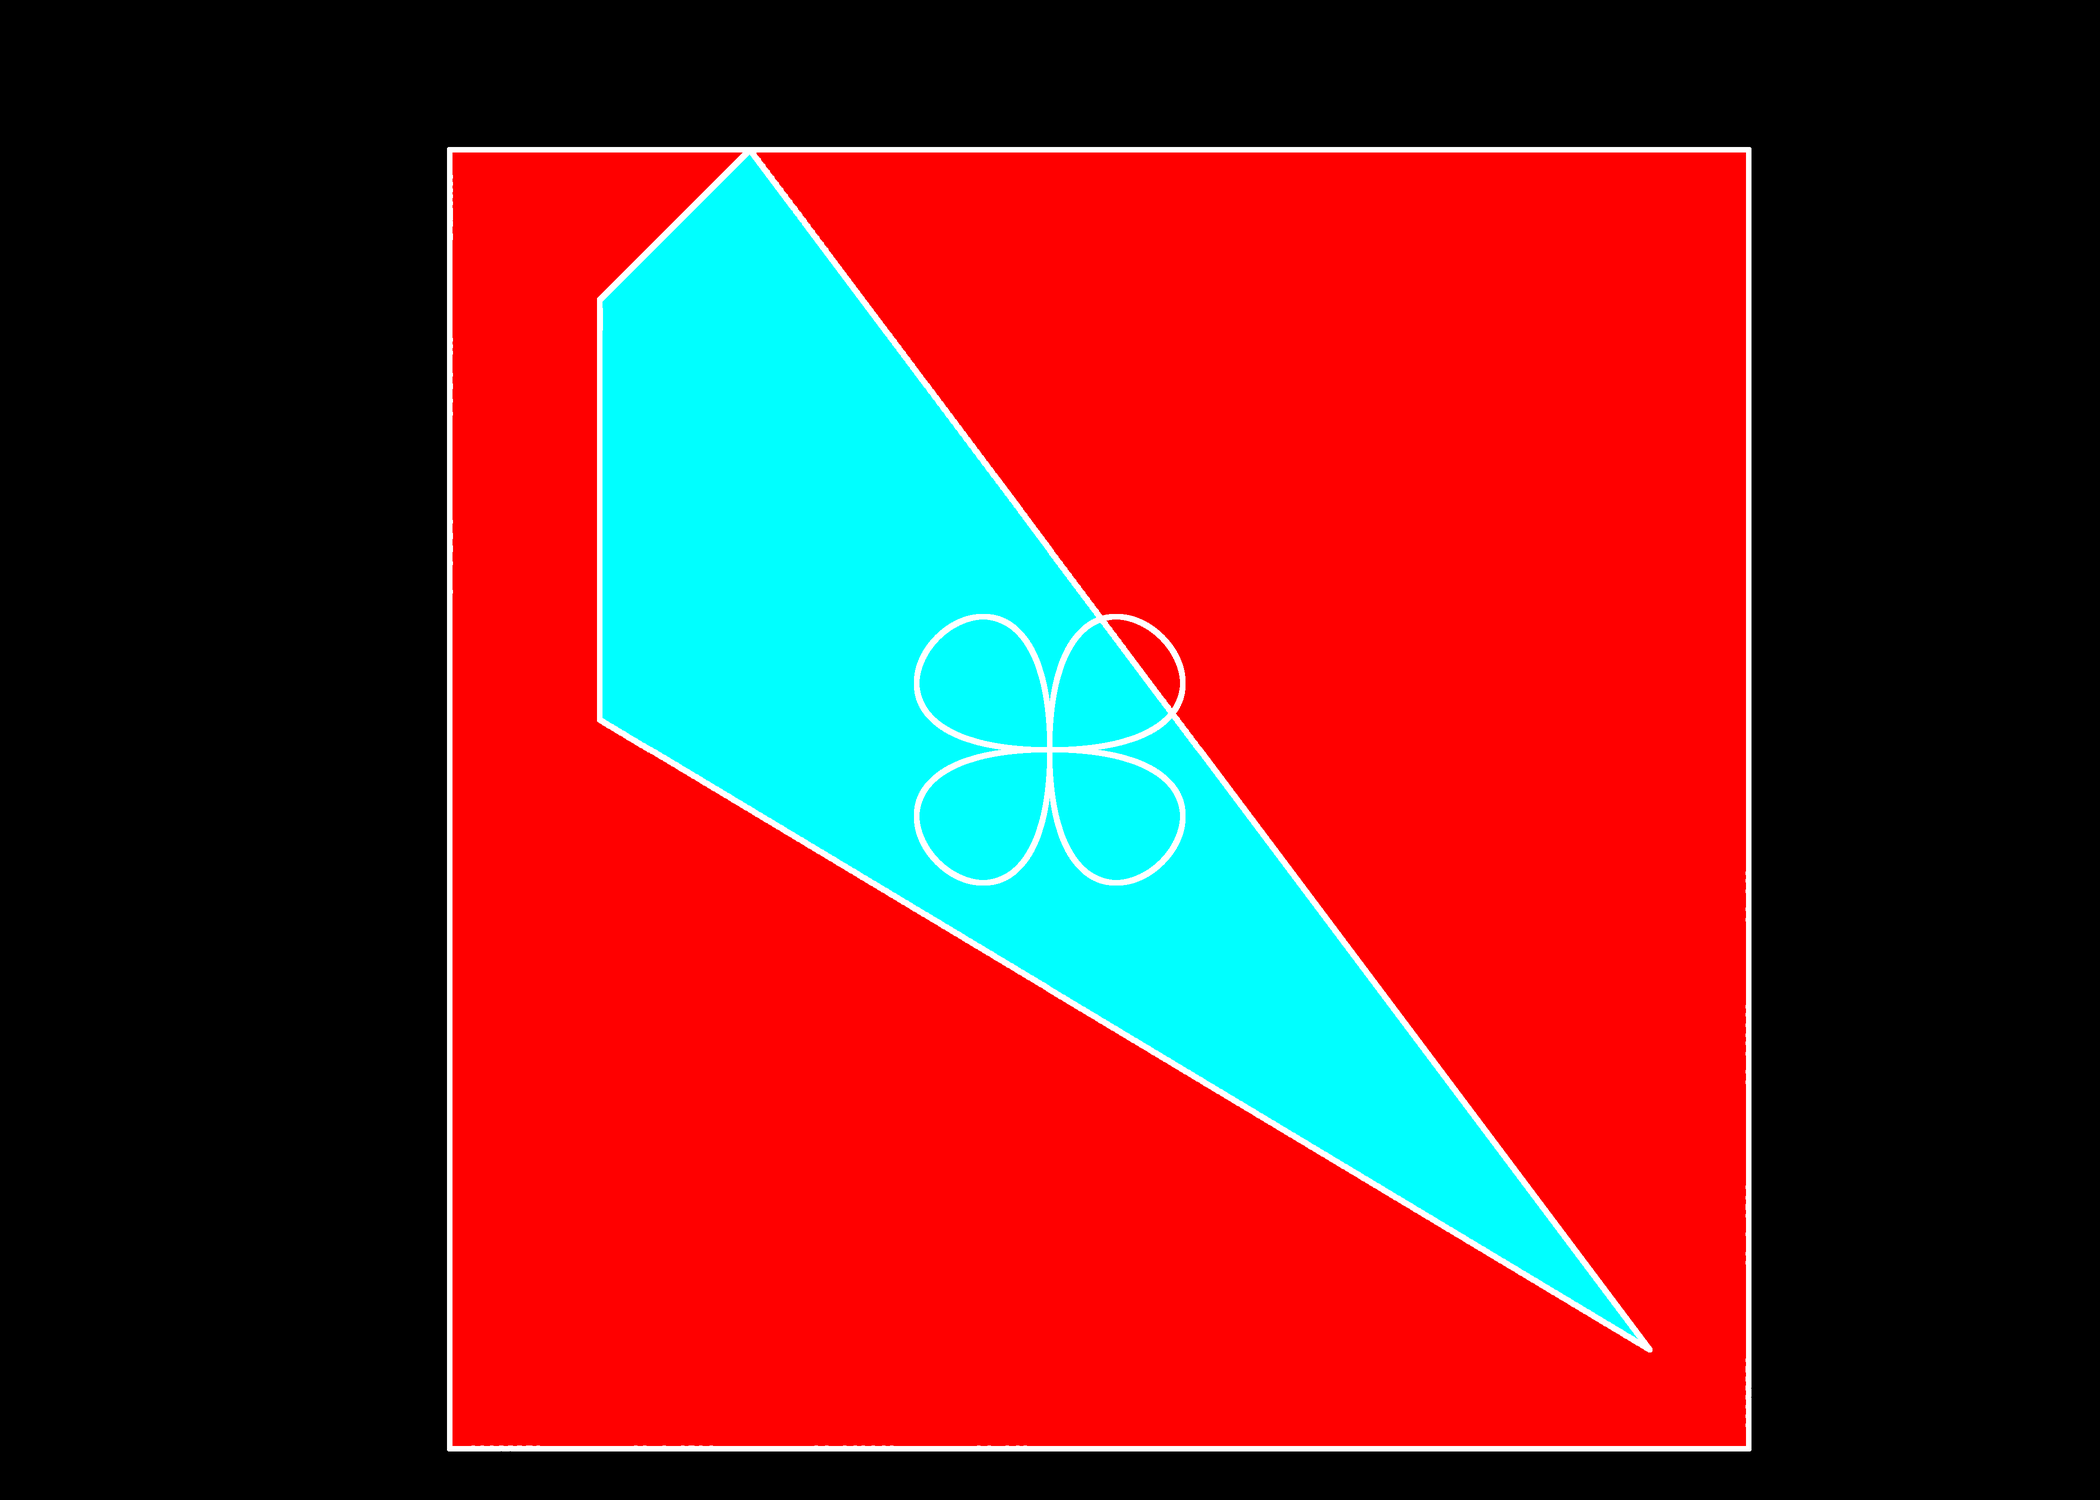
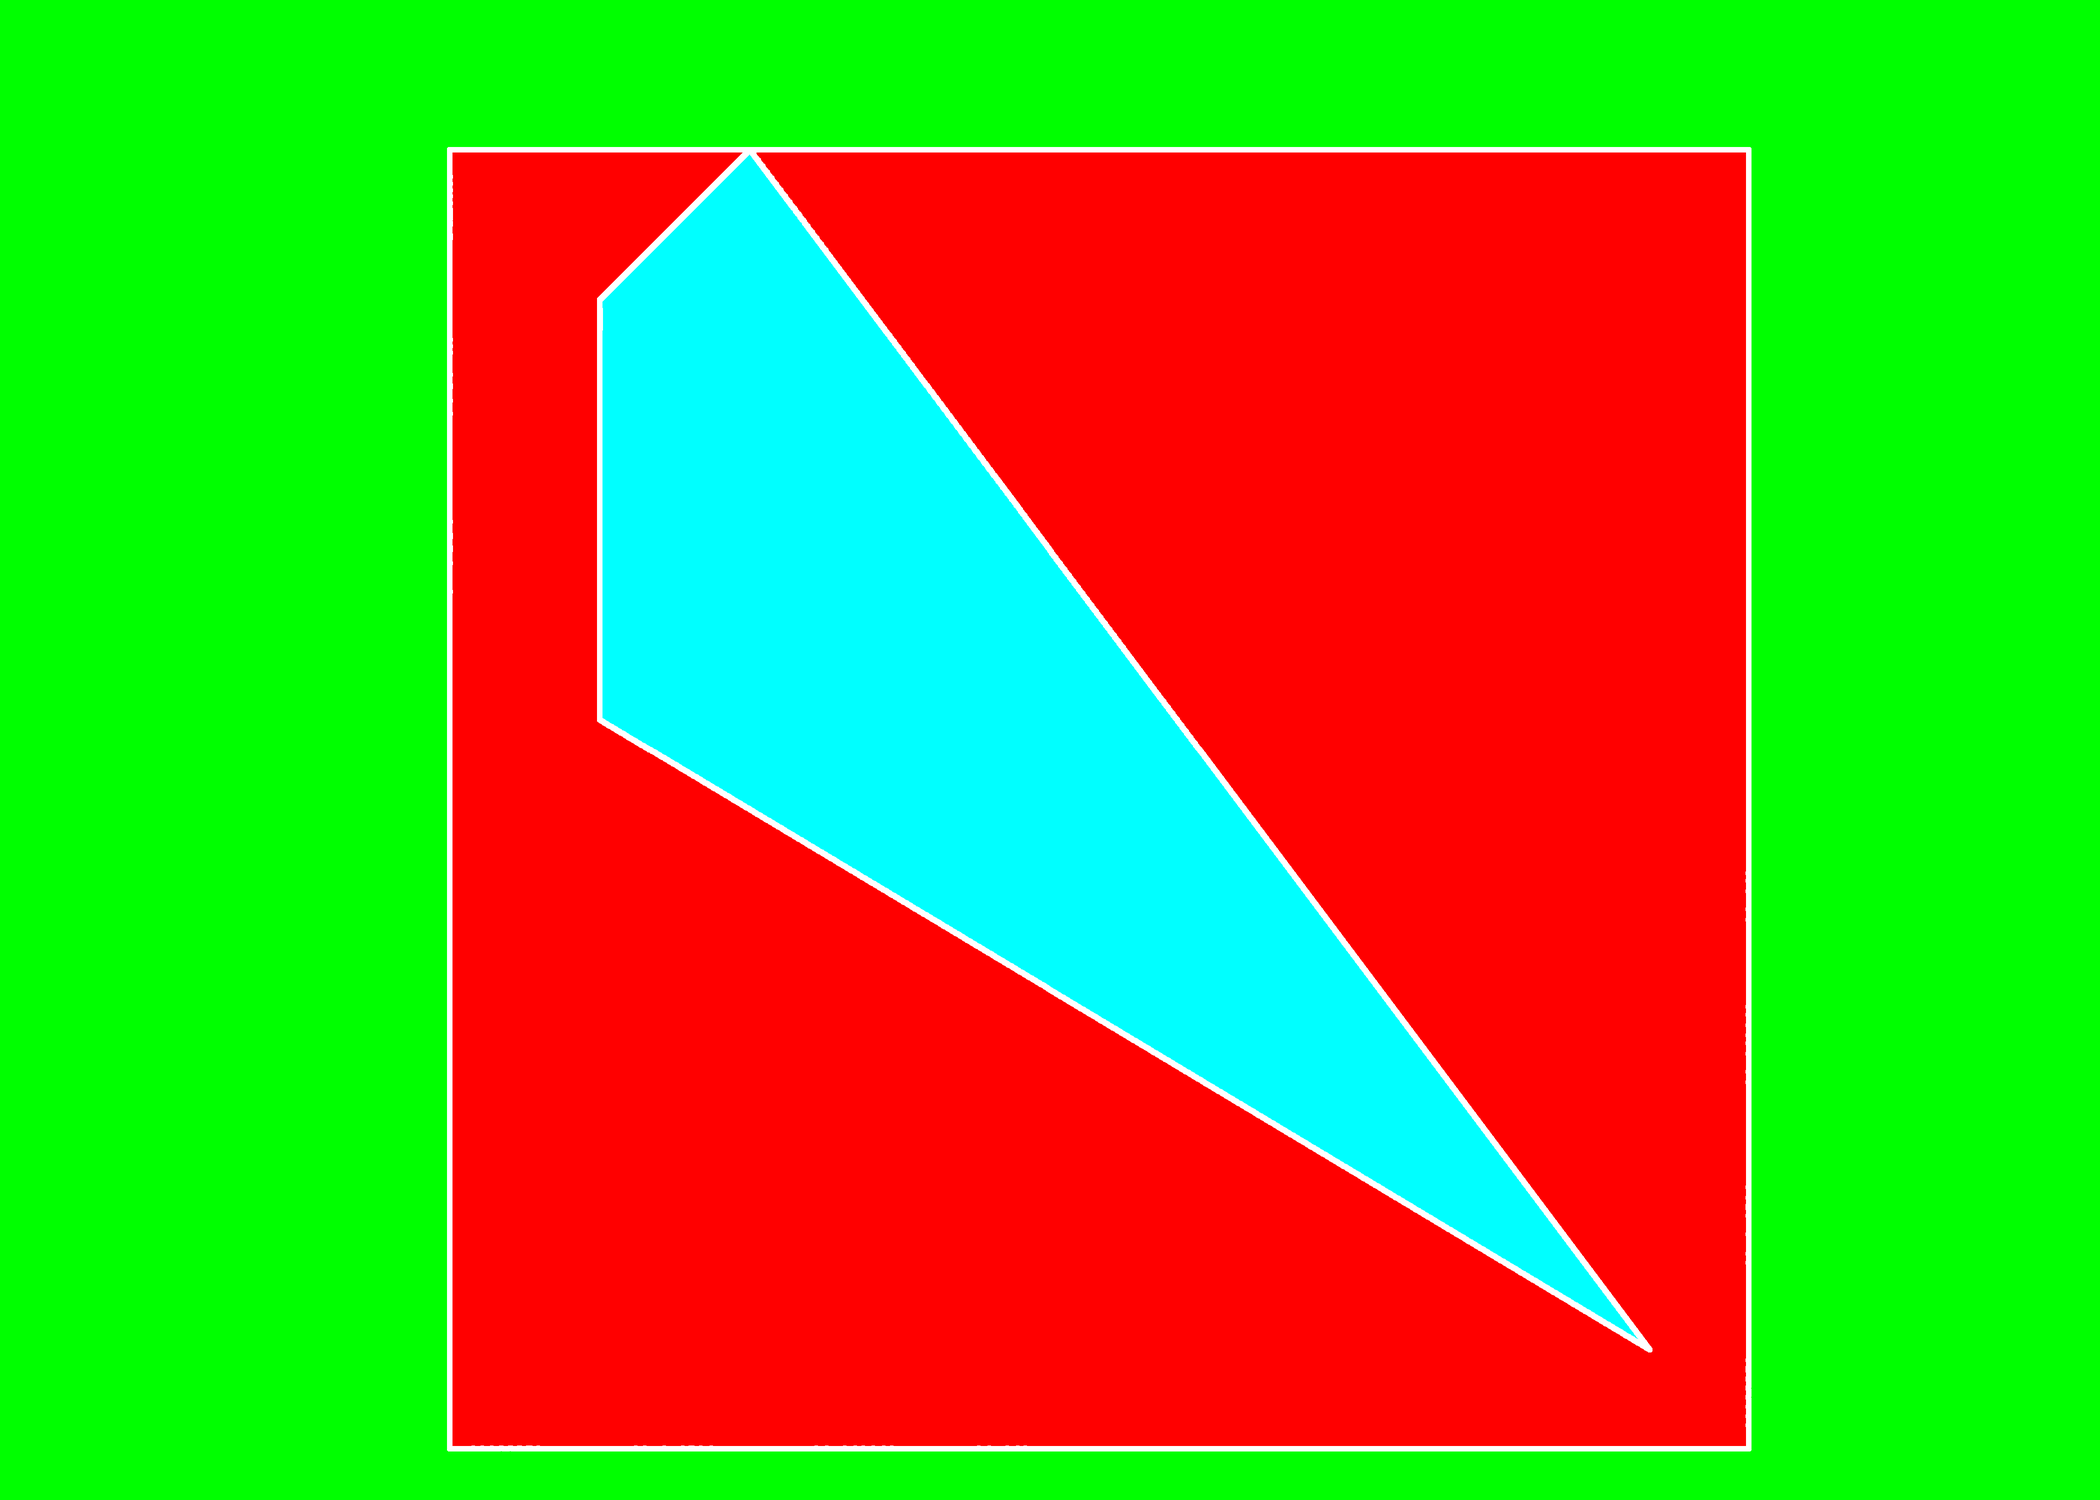
added support for different background colors

diff --git a/lsvg/__init__.py b/lsvg/__init__.py
@@ -13,11 +13,12 @@ class Canvas:
     '''`lsvg.Canvas` Object
     
     A canvas used to rasterize objects in `lsvg.shapes`'''
-    def __init__(self, width:int, height:int, *args, tlpos:tuple=None) -> None:
+    def __init__(self, width:int, height:int, *args, tlpos:tuple=None, bgcol:tuple=(0, 0, 0)) -> None:
         self.width=width
         self.height=height
         self.tlpos=tlpos
         self.objects=args
+        self.bgcol=bgcol
         if not tlpos:
             self.tlpos=(-width/2, -height/2)
     
@@ -27,7 +28,7 @@ class Canvas:
         `step` -> resolution of bezier curves
         `res` -> resolution of final image (multiplied by canvas size)
         `antialiasres` -> resolution to render at (multiplied by `res` and the canvas size)'''
-        return lsvg.lib.raster.rasterize(self.objects, self.height, self.width, self.tlpos, step, res, antialiasres)
+        return lsvg.lib.raster.rasterize(self.objects, self.height, self.width, self.tlpos, step, res, antialiasres, self.bgcol)
 
     def visualize(self) -> None:
         '''Draws the canvas outline to a turtle window.'''

diff --git a/lsvg/lib/raster.py b/lsvg/lib/raster.py
@@ -2,9 +2,9 @@ import numpy, lsvg.shapes.bezier as bezier, PIL.Image
 import lsvg.shapes
 from .trifill import drawTriangle
 
-def rasterize(objects, height, width, tl, step:int=10000, res:int=3, antialiasres:int=2) -> PIL.Image.Image:
+def rasterize(objects, height, width, tl, step:int=10000, res:int=3, antialiasres:int=2, bgcol:tuple=(0, 0, 0)) -> PIL.Image.Image:
     antialiasres*=res
-    img=numpy.zeros((height*antialiasres, width*antialiasres, 3), dtype=numpy.uint8)
+    img=numpy.full((height*antialiasres, width*antialiasres, 3), bgcol, dtype=numpy.uint8)
     #setup
     processed=[]
     for x in objects:

diff --git a/draw-letter.py b/draw-letter.py
@@ -5,7 +5,7 @@ curves=[]
 curves.extend([Rect((233, 233), (-200, -200), fillcolor=(255, 0, 0))])
 curves.extend([Quad((200, 200), (-100, -200), (-150, -150), (-150, -10), fillcolor=(0, 255, 255))])
 #curves.extend([Circle((0, 0), 200)])
-canvas=Canvas(700, 500, *curves)
+canvas=Canvas(700, 500, *curves, bgcol=(0, 255, 0))
 
 canvas.rasterize(step=1000).save('img.png')
 canvas.save()
